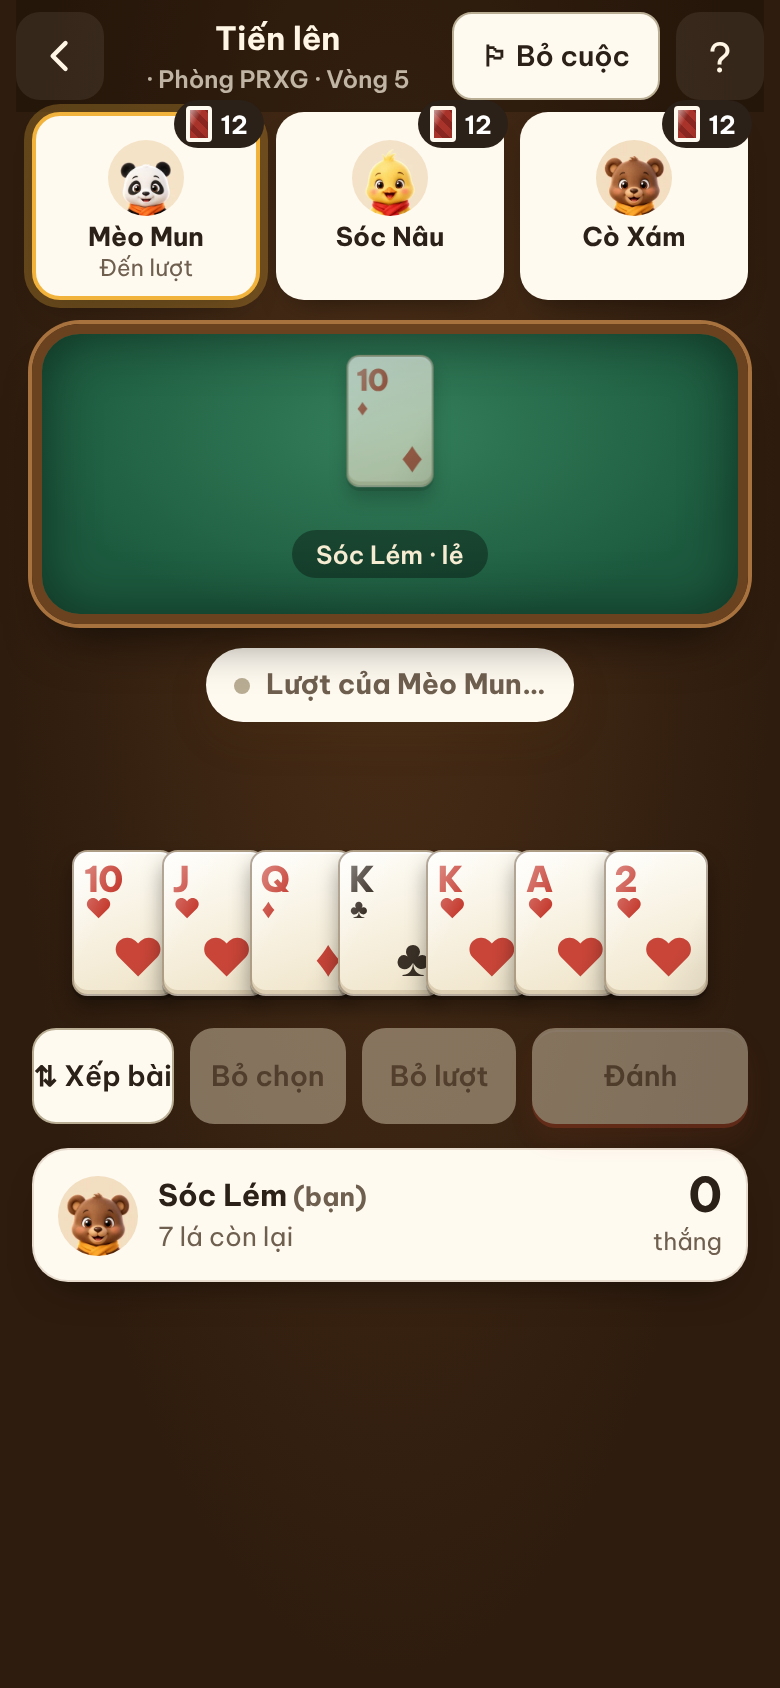
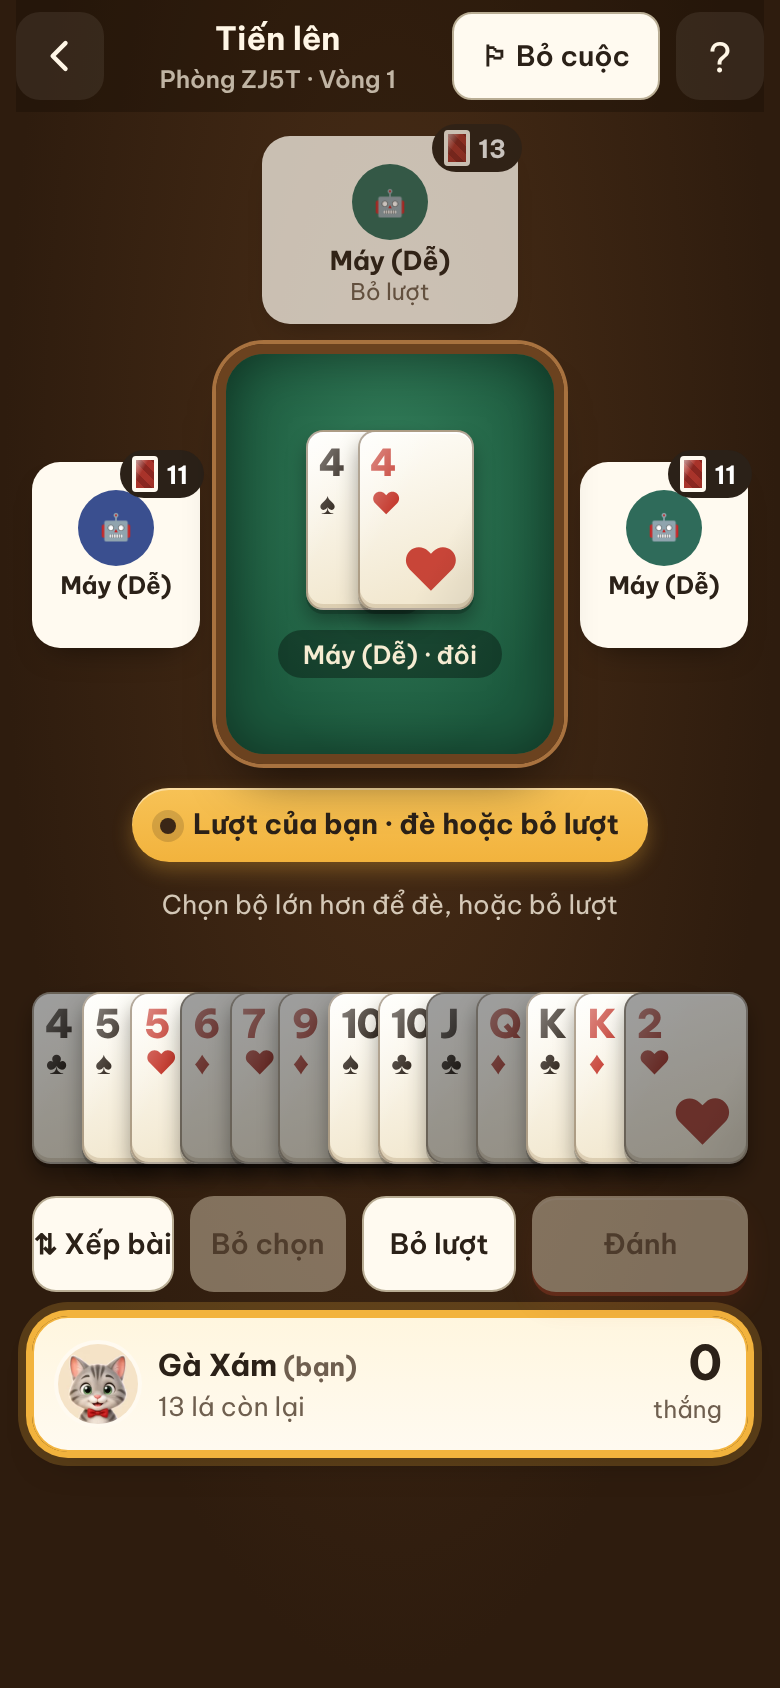
Tiến lên: đối thủ ngồi quanh bàn (trái, trên, phải), bài to hơn
Claude-Session: https://claude.ai/code/session_014X6Kfnrokzd44eJiamJS2t

diff --git a/packages/client/tien-len/game-view.ts b/packages/client/tien-len/game-view.ts
@@ -17,6 +17,13 @@ import { TienLenPlayerCard } from "./player-card.ts";
 import { judge, smallestPlayWith, sortHand, usableCards } from "./plays.ts";
 import { resultHtml } from "./result-view.ts";
 
+/** Chỗ ngồi của đối thủ quanh bàn theo số đối thủ, thứ tự đi: từ trái sang trên rồi sang phải */
+const OPPONENT_PLACES: Record<number, string[]> = {
+  1: ["top"],
+  2: ["left", "right"],
+  3: ["left", "top", "right"],
+};
+
 export class TienLenGameView implements GameScreen {
   private room: TienLenRoom;
   private you: You;
@@ -37,6 +44,7 @@ export class TienLenGameView implements GameScreen {
   private readonly actions: GameActions;
   private readonly onKey = (e: KeyboardEvent): void => this.handleKey(e);
   private readonly resizeObserver: ResizeObserver | null;
+  private readonly tableEl: HTMLElement;
 
   constructor(root: HTMLElement, room: PublicRoom, you: You, actions: GameActions) {
     if (room.gameId !== "tien-len") throw new Error(`Cần phòng Tiến lên, nhận ${room.gameId}`);
@@ -53,6 +61,8 @@ export class TienLenGameView implements GameScreen {
     this.handEl = this.q("[data-hand]");
     this.resizeObserver = typeof ResizeObserver === "undefined" ? null : new ResizeObserver(() => this.layoutHand());
     this.resizeObserver?.observe(this.handEl);
+    this.tableEl = this.q("[data-table-cards]");
+    this.resizeObserver?.observe(this.tableEl);
 
     this.initEvents();
     this.refresh();
@@ -241,12 +251,15 @@ export class TienLenGameView implements GameScreen {
 
   private renderOpponents(): void {
     const v = this.view;
-    this.q("[data-opps]").innerHTML = this.opponentSeats()
-      .map((seat) => {
+    const seats = this.opponentSeats();
+    const places = OPPONENT_PLACES[seats.length] ?? [];
+    this.q("[data-opps]").innerHTML = seats
+      .map((seat, i) => {
         const who = identityInRoom(this.room, seat);
         const gone = v.left.includes(seat);
         const cls = [
           "tl-opp",
+          places[i] ?? "top",
           v.status === "playing" && v.turn === seat ? "turn" : "",
           v.passed.includes(seat) ? "passed" : "",
           v.finished.includes(seat) ? "out" : "",
@@ -274,6 +287,7 @@ export class TienLenGameView implements GameScreen {
     }
     const last = this.fresh ? "fresh" : "";
     cardsEl.innerHTML = t.combo.cards.map((c) => cardHtml(c, { extra: `tbl ${last}` })).join("");
+    this.layoutTable();
     labelEl.textContent = `${this.nameOf(t.by)} · ${kindLabel(t.combo.kind)}`;
     this.fresh = false;
   }
@@ -319,6 +333,18 @@ export class TienLenGameView implements GameScreen {
     if (w === 0 || room === 0) return;
     const step = n > 1 ? Math.min(w * 0.85, (room - w) / (n - 1)) : 0;
     this.handEl.style.setProperty("--step", `${Math.max(step, 0)}px`);
+    this.layoutTable();
+  }
+
+  /** Bộ trên bàn dài (sảnh, đôi thông) co lại cho vừa khung */
+  private layoutTable(): void {
+    const cards = this.tableEl.querySelectorAll<HTMLElement>(".tl-card");
+    const n = cards.length;
+    const w = cards[0]?.getBoundingClientRect().width ?? 0;
+    const room = this.tableEl.clientWidth;
+    if (n < 2 || w === 0 || room === 0) return;
+    const step = Math.min(w * 0.52, (room - w) / (n - 1));
+    this.tableEl.style.setProperty("--tstep", `${Math.max(step, 6)}px`);
   }
 
   private renderButtons(): void {

diff --git a/packages/client/tien-len/tien-len.css b/packages/client/tien-len/tien-len.css
@@ -46,8 +46,8 @@
   position: absolute;
   top: 7%;
   left: 9%;
-  font-size: calc(var(--cw) * 0.34);
-  letter-spacing: -0.04em;
+  font-size: calc(var(--cw) * 0.32);
+  letter-spacing: -0.05em;
 }
 
 .tl-card .st {
@@ -86,12 +86,51 @@
 
 /* ---------- Hàng đối thủ ---------- */
 
-.tl-opps {
+/* Bốn người quanh bàn: đối thủ trên / trái / phải, mình ở dưới. .tl-opps chỉ là vỏ, từng ghế là ô lưới của .tl-board */
+.tl-board {
   align-self: stretch;
   display: grid;
-  grid-auto-flow: column;
-  grid-auto-columns: minmax(0, 1fr);
-  gap: 8px;
+  grid-template-columns: auto minmax(0, 1fr) auto;
+  grid-template-rows: auto 1fr;
+  grid-template-areas:
+    "top top top"
+    "left table right";
+  align-items: center;
+  column-gap: 8px;
+  row-gap: 10px;
+  padding-top: 12px;
+}
+
+.tl-opps {
+  display: contents;
+}
+
+.tl-opp.top {
+  grid-area: top;
+  justify-self: center;
+  min-width: 128px;
+}
+
+.tl-opp.left {
+  grid-area: left;
+}
+
+.tl-opp.right {
+  grid-area: right;
+}
+
+.tl-opp.left,
+.tl-opp.right {
+  width: 84px;
+}
+
+.tl-opp.left .info b,
+.tl-opp.right .info b {
+  font-size: 12px;
+}
+
+.tl-table {
+  grid-area: table;
 }
 
 .tl-opp {
@@ -180,8 +219,8 @@
   align-items: center;
   justify-content: center;
   gap: 10px;
-  min-height: 150px;
-  padding: 14px 10px;
+  min-height: 210px;
+  padding: 14px 8px;
   border: 5px solid #6b421f;
   border-radius: 24px;
   background: radial-gradient(ellipse at 50% 35%, #347f5b, #1c5a3e 75%);
@@ -192,17 +231,19 @@
 }
 
 .tl-table-cards {
+  --tstep: 30px;
+  align-self: stretch;
   display: flex;
   justify-content: center;
-  min-height: 70px;
+  min-height: 90px;
 }
 
 .tl-card.tbl {
-  --cw: 46px;
+  --cw: 58px;
 }
 
 .tl-card.tbl + .tl-card.tbl {
-  margin-left: calc(var(--cw) * -0.48);
+  margin-left: calc(var(--tstep) - var(--cw));
 }
 
 .tl-card.tbl.fresh {
@@ -216,12 +257,13 @@
   color: #f6ecd2;
   font-size: 12.5px;
   font-weight: 600;
+  text-align: center;
 }
 
 /* ---------- Tay bài ---------- */
 
 .tl-hand {
-  --cw: 52px;
+  --cw: 62px;
   display: flex;
   justify-content: center;
   align-items: flex-end;
@@ -382,7 +424,7 @@
 
 @media (min-width: 1024px) {
   .tl-stage {
-    max-width: 880px;
+    max-width: 960px;
     margin: 0 auto;
     width: 100%;
     gap: 10px;
@@ -390,15 +432,20 @@
   }
 
   .tl-hand {
-    --cw: 60px;
+    --cw: 76px;
   }
 
   .tl-card.tbl {
-    --cw: 56px;
+    --cw: 68px;
   }
 
   .tl-table {
-    min-height: 168px;
+    min-height: 210px;
+  }
+
+  .tl-opp.left,
+  .tl-opp.right {
+    width: 124px;
   }
 
   .tl-opp .avatar {

diff --git a/packages/client/tien-len/game-page.ts b/packages/client/tien-len/game-page.ts
@@ -34,12 +34,13 @@ export function tienLenPageHtml(options: Options): string {
 
       <div class="g-layout">
         <main class="stage tl-stage">
-          <div class="tl-opps" data-opps></div>
-
-          <div class="tl-table" data-table>
-            <div class="tl-table-cards" data-table-cards></div>
-            <div class="tl-table-label" data-table-label></div>
-            <div class="locked" hidden><span>🔒 Bàn tạm khoá</span></div>
+          <div class="tl-board">
+            <div class="tl-opps" data-opps></div>
+            <div class="tl-table" data-table>
+              <div class="tl-table-cards" data-table-cards></div>
+              <div class="tl-table-label" data-table-label></div>
+              <div class="locked" hidden><span>🔒 Bàn tạm khoá</span></div>
+            </div>
           </div>
 
           <div class="status-row">

diff --git a/docs/tien-len/02-thiet-ke-ux.md b/docs/tien-len/02-thiet-ke-ux.md
@@ -18,7 +18,7 @@ Làm cho điện thoại trước (360px), vùng chạm ≥ 44px. Màn hình và
 Từ trên xuống:
 
 1. **Thanh trên**: nút quay lại, tên phòng, nút `?` luật chơi.
-2. **Hàng đối thủ** (1 đến 3 thẻ nhỏ cạnh nhau): avatar, tên, **số lá còn lại** dạng chip `🂠 9`; viền vàng khi đến lượt; nhãn mờ "Bỏ lượt" khi đã bỏ vòng này; nhãn hạng (🥇🥈🥉) khi đã hết bài.
+2. **Đối thủ quanh bàn**: 4 người = trái, trên, phải (theo thứ tự đi: trái → trên → phải), 3 người = trái và phải, 2 người = trên. Mỗi thẻ có avatar, tên, **số lá còn lại** dạng chip `🂠 9`; viền vàng khi đến lượt; nhãn mờ "Bỏ lượt" khi đã bỏ vòng này; nhãn hạng khi đã hết bài. Bài trên tay to hơn (62px điện thoại, 76px desktop).
 3. **Mặt bàn** (giữa): bộ bài vừa đánh, xếp ngang các lá ngửa kèm tên người đánh; nếu bàn trống ghi "Đi tự do". Hiệu ứng lá bay từ ghế người đánh tới mặt bàn; chặt có nhãn "Chặt!".
 4. **Viên trạng thái**: "Lượt của bạn · chọn bài", "Lượt của Mèo Mun", "Bàn trống: bạn đi tự do".
 5. **Tay bài của bạn**: 13 lá xếp **quạt chồng nhau** theo thứ tự tăng dần (lá nhỏ bên trái), mỗi lá lộ ≥ 24px để chạm; lá lớn hơn rộng ~56 × 80px. Chạm một lá để **nâng lên** (chọn); chạm lại để bỏ chọn. Kéo ngón tay qua nhiều lá để chọn nhanh một đoạn.
